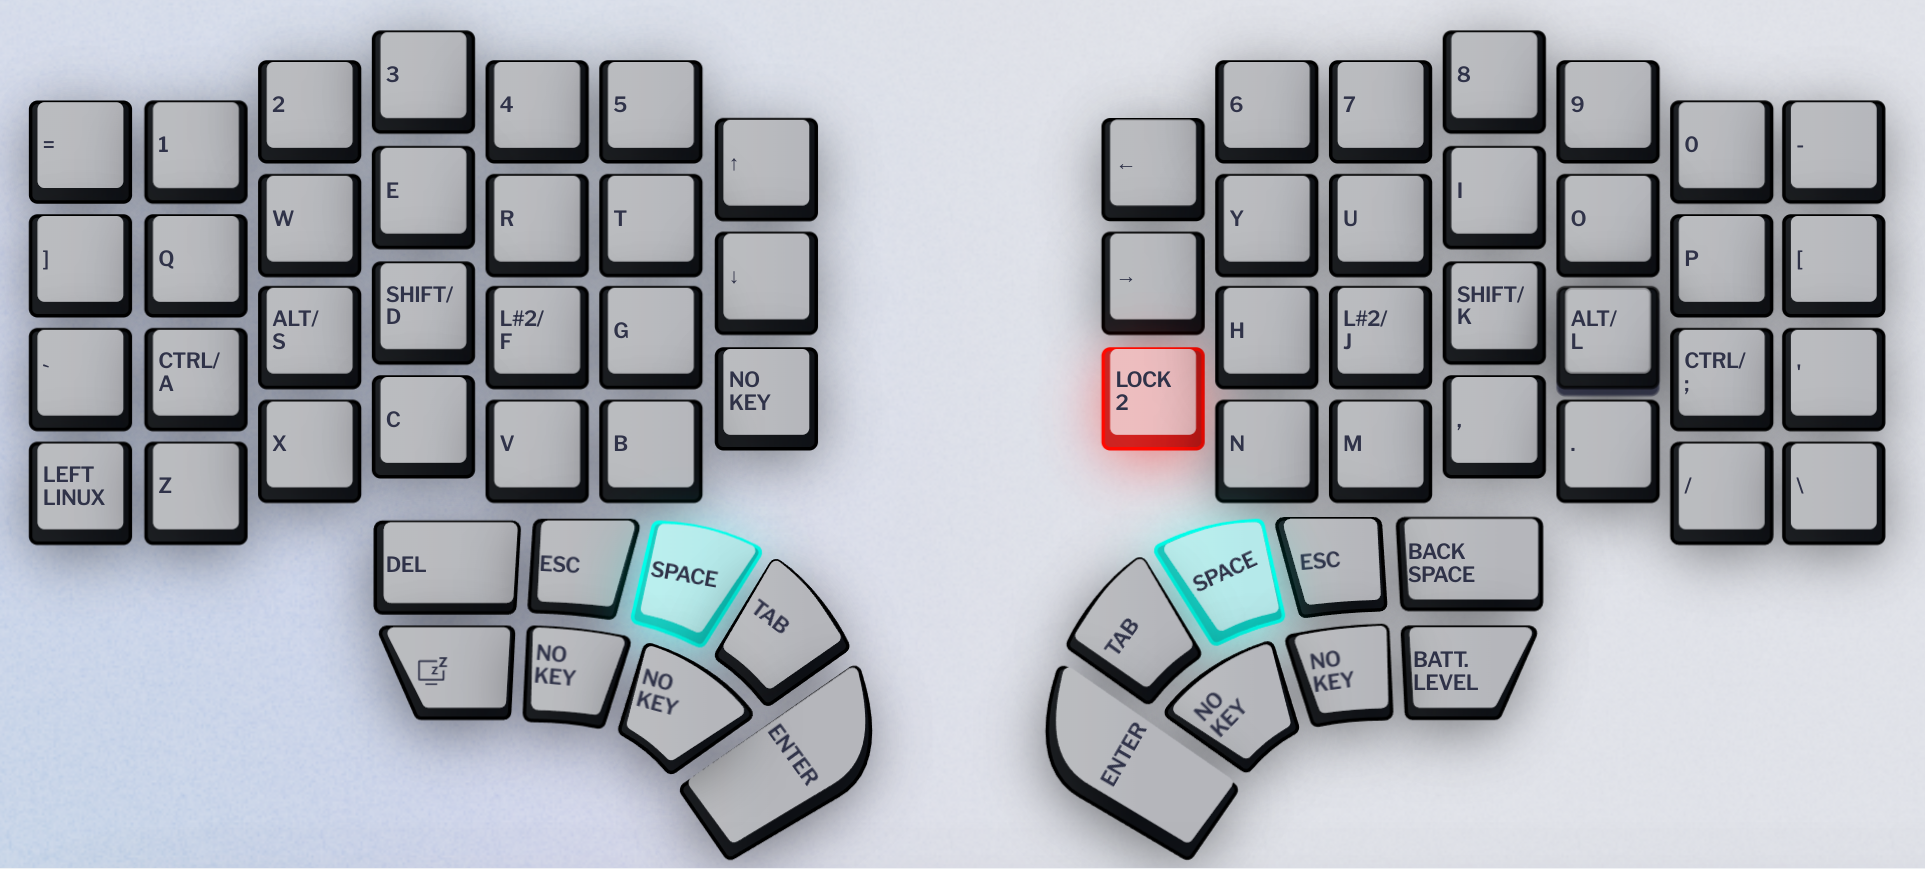
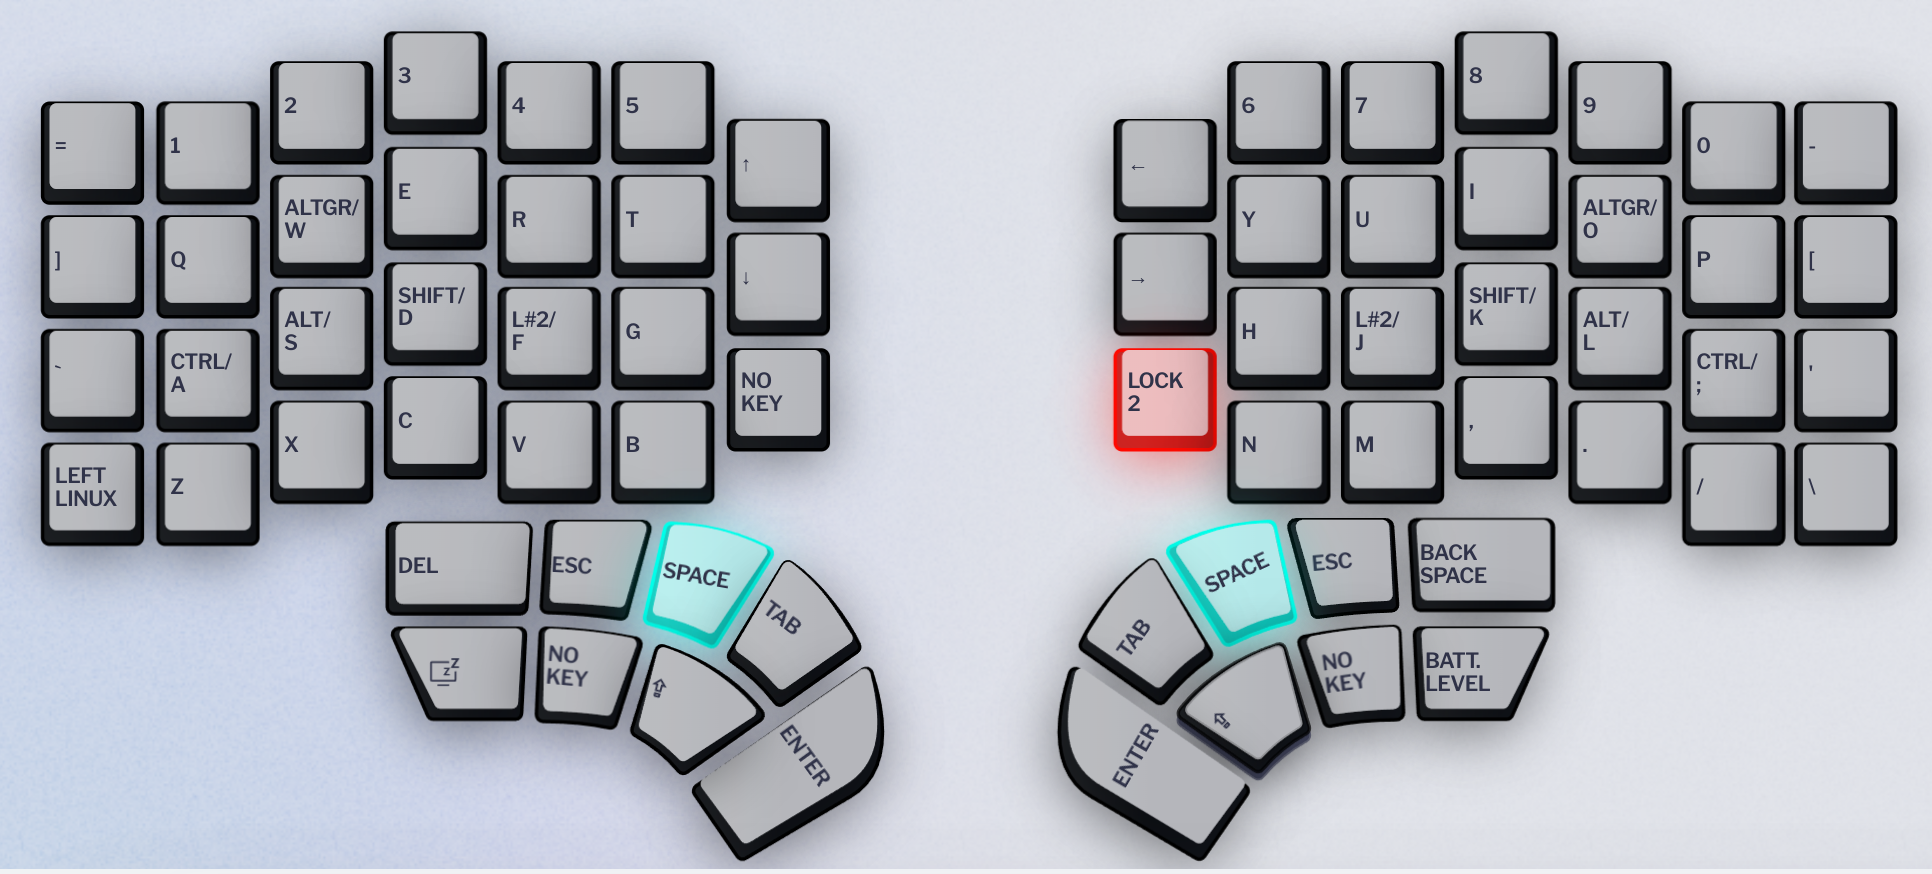
added modifiers

Changed region(s): [[0.0, 0.0311, 0.4675, 1.0], [0.5299, 0.0311, 0.9974, 1.0], [0.9662, 0.1243, 0.9974, 0.2175]]

diff --git a/CHANGELOG.md b/CHANGELOG.md
@@ -1,3 +1,9 @@
+# 1.2.0
+- Added caps lock in thumb keys.
+- Added dual function alt gr in main layer.
+- Added - and / in symbols layer.
+- Set different colors for F keys and symbols.
+
 # 1.1.0
 - Remove colors in the first layer to maximize battery life.
 - Change colors to maximize visibility on low intensity config.
